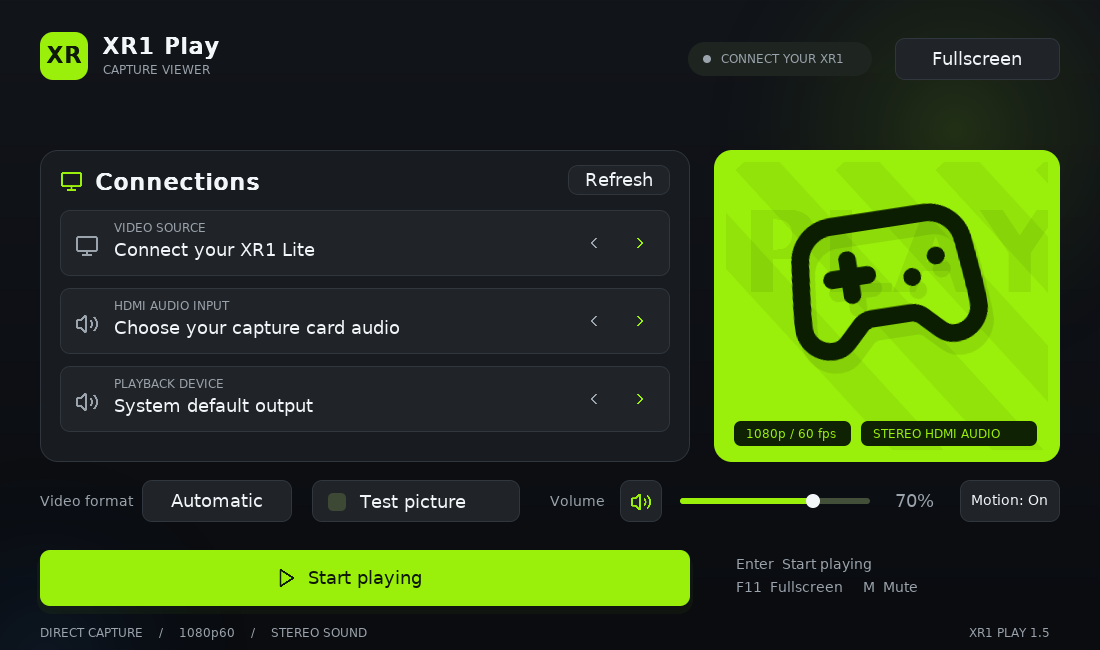
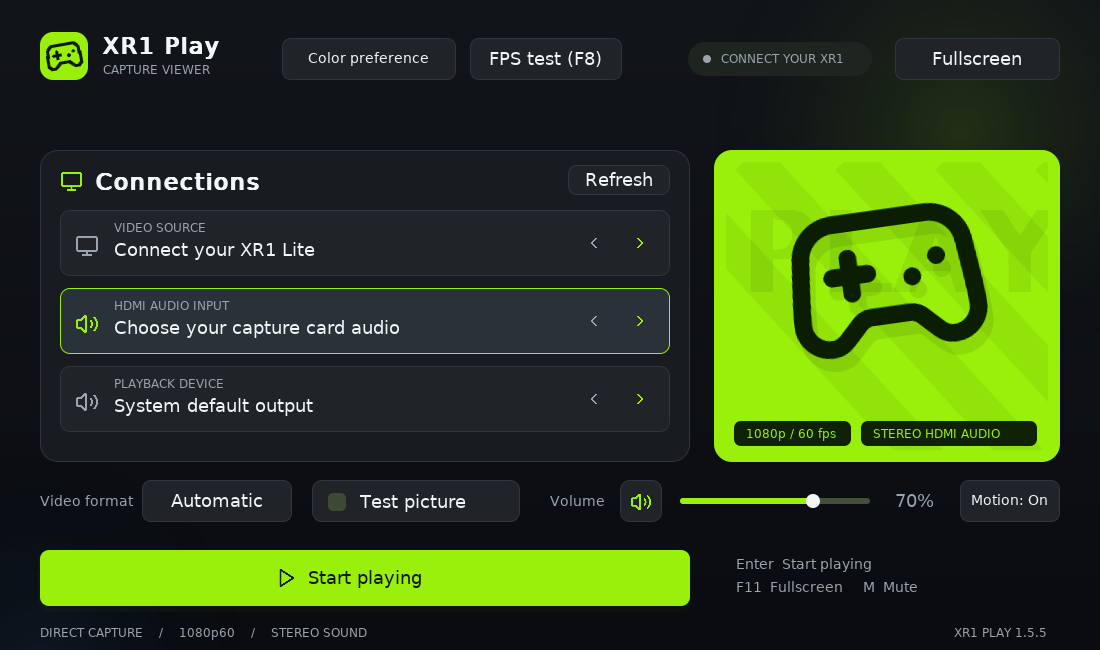
Prepare the Windows Beta v1 branch with its setup guide and current interface

diff --git a/README.md b/README.md
@@ -1,71 +1,24 @@
-# XR1 Play 1.5.0
+# XR1-L Play Windows Beta v1
 
-Native, live-only **1080p60 video with stereo HDMI audio** for the EVGA XR1 Lite.
-Linux uses V4L2; Windows uses Media Foundation. Audio and the SDL desktop UI
-are native on both systems. No recorder, server, browser or frame interpolation.
-Controllers stay connected to the Xbox.
+Native **1080p60 preview with HDMI stereo audio** for EVGA XR1 Lite on Windows.
 
-Prebuilt applications are available in the repository's **Releases** section.
-Use the Linux AppImage, or the complete Windows portable ZIP (preview).
+[Download Windows Beta v1](https://github.com/Jpooo/XR1-Play/releases/tag/windows-beta-v1)
 
-![XR1 Play interface](docs/screenshot.png)
-
-The headline/subtitle are removed from both versions. The shared menu is more
-compact and uses neutral device/status labels. Motion, fullscreen, volume,
-latest-frame handoff and the existing bounded audio queue remain available.
-
-## Downloads and launch
-
-**Linux x64**: make `XR1-Play-1.5.0-x86_64.AppImage` executable and open it:
-
-```sh
-chmod +x XR1-Play-1.5.0-x86_64.AppImage
-./XR1-Play-1.5.0-x86_64.AppImage
-```
-
-Without FUSE, run:
-
-```sh
-./XR1-Play-1.5.0-x86_64.AppImage --appimage-extract-and-run
-```
-
-**Windows 10/11 x64 preview**: extract [`XR1-Play-1.5.0-Windows-x64.zip`](https://github.com/Jpooo/XR1-Play/releases/tag/v1.5.0) completely
-and open `XR1-Play.exe`. Keep its DLLs and assets directory together. See
-[Windows setup](https://github.com/Jpooo/XR1-Play/blob/v1.5.0/README-Windows.md)
-for setup/permissions. This unsigned preview has reported frame-rate fluctuations
-and intermittent audio crackling on Windows 11.
-
-**Compatibility is not universal or guaranteed.** The binaries are not a test
-of every unit/firmware/host. See [COMPATIBILITY.md](COMPATIBILITY.md) for the
-support boundary, tested cases and a real-hardware verification checklist.
-Linux binary targets require x86_64, glibc 2.38+ and standard display/audio
-libraries; current Bazzite is the primary Linux target. Older systems can build
-from source. Windows N needs Microsoft's Media Feature Pack.
+![XR1 Play Windows Beta interface](docs/screenshot.png)
 
 ## Connect and play
 
-1. Xbox HDMI OUT -> XR1 Lite HDMI IN, then XR1 directly to a USB 3 port with a
-   USB 3 data cable. Close OBS/Camera/other capture applications.
-2. Set Xbox to **1080p, 60 Hz, SDR**, HDMI audio **Stereo uncompressed**.
-   A headset setting may mute speaker/HDMI audio; check that if sound is missing.
-3. Select the XR1 video device and its **audio input**. Generic names such as
-   USB Digital Audio are selectable. The app selects names containing XR1/EVGA
-   when available; it does not automatically open an unidentified microphone.
-4. Choose speakers/headphones, keep format Automatic, and click **Start playing**.
-   Leave **Test picture off** for actual card capture.
+1. Extract the entire Windows ZIP, then open `XR1-Play.exe`. Keep its DLLs and assets folder together.
+2. Connect Xbox/console HDMI OUT to XR1 Lite HDMI IN, then connect the card to USB 3 with a USB 3 data cable.
+3. Set the console to **1080p, 60 Hz, SDR** and HDMI audio to **Stereo uncompressed**. Close other capture apps.
+4. Choose the card's video source, its HDMI audio input and your speakers/headphones. Click **Start playing**.
 
-Device selection is saved after a successful start. Linux prefers stable
-`/dev/v4l/by-id` paths so renumbering need not break a saved card selection.
-Windows uses native symbolic links. An explicitly requested missing ID/name
-produces an error instead of silently switching devices.
+Windows Settings must allow desktop camera and microphone access. Windows N needs the Media Feature Pack.
 
-Click the arrows on connection cards to choose devices. Refresh rescans while
-stopped. Automatic cycles pixel formats. Back to game closes settings while
-keeping capture running; Stop preview stops it. Move the mouse for the player
-volume/mute/settings/fullscreen controls; they hide after three seconds.
+Use **Color preference** for Xbox green, PlayStation blue or Nintendo red. Your selection is saved.
+**F/F11** toggles fullscreen, **M** mutes and **+/-** changes volume. **Tab** opens settings.
+Click **FPS test** or press **F8** for a 30-second measurement; **Close** or F8 hides the test without stopping playback.
 
-- **Enter** starts/stops; **Tab** opens/closes settings.
-- **F / F11** or double-click video toggles fullscreen.
-- **M** mutes; **+ / -** changes volume. The volume slider also unmutes.
-- **R** refreshes stopped devices; **Esc** leaves fullscreen, then stops/quits.
-- **Motion** or `--reduce-motion` controls menu animation.
+Beta v1 packages application build **1.5.5**. See [Windows setup](README-Windows.md) for details.
+
+The working Linux AppImage is available in the separate [1.5.0 release](https://github.com/Jpooo/XR1-Play/releases/tag/v1.5.0).
